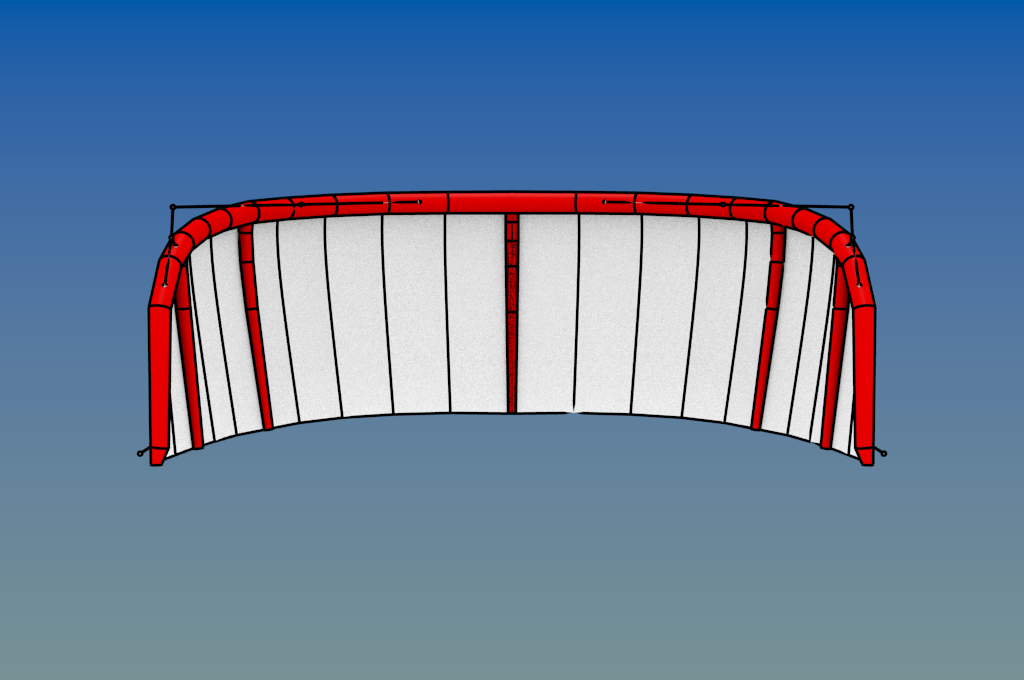
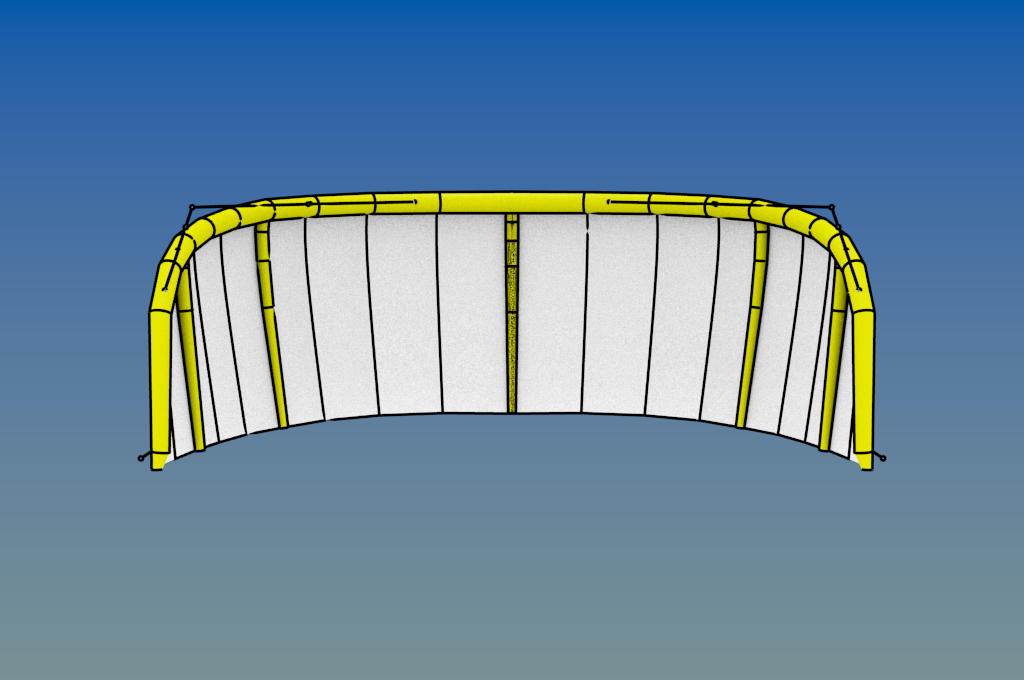
removed one segment from the center. Changed color to spiegelei

Changed region(s): [[0.125, 0.2779, 0.875, 0.7103]]

diff --git a/Readme.md b/Readme.md
@@ -13,6 +13,9 @@ View the [design specs](https://github.com/wingworks/Circus-9/blob/master/Circus
 ![Kite 3D preview](https://github.com/wingworks/Circus-9/blob/master/Circus-9_right.png) 
 
 # History
+## Version 0.2
+Reduced the number of segments
+
 ## Version 0.1
 First draft
 
